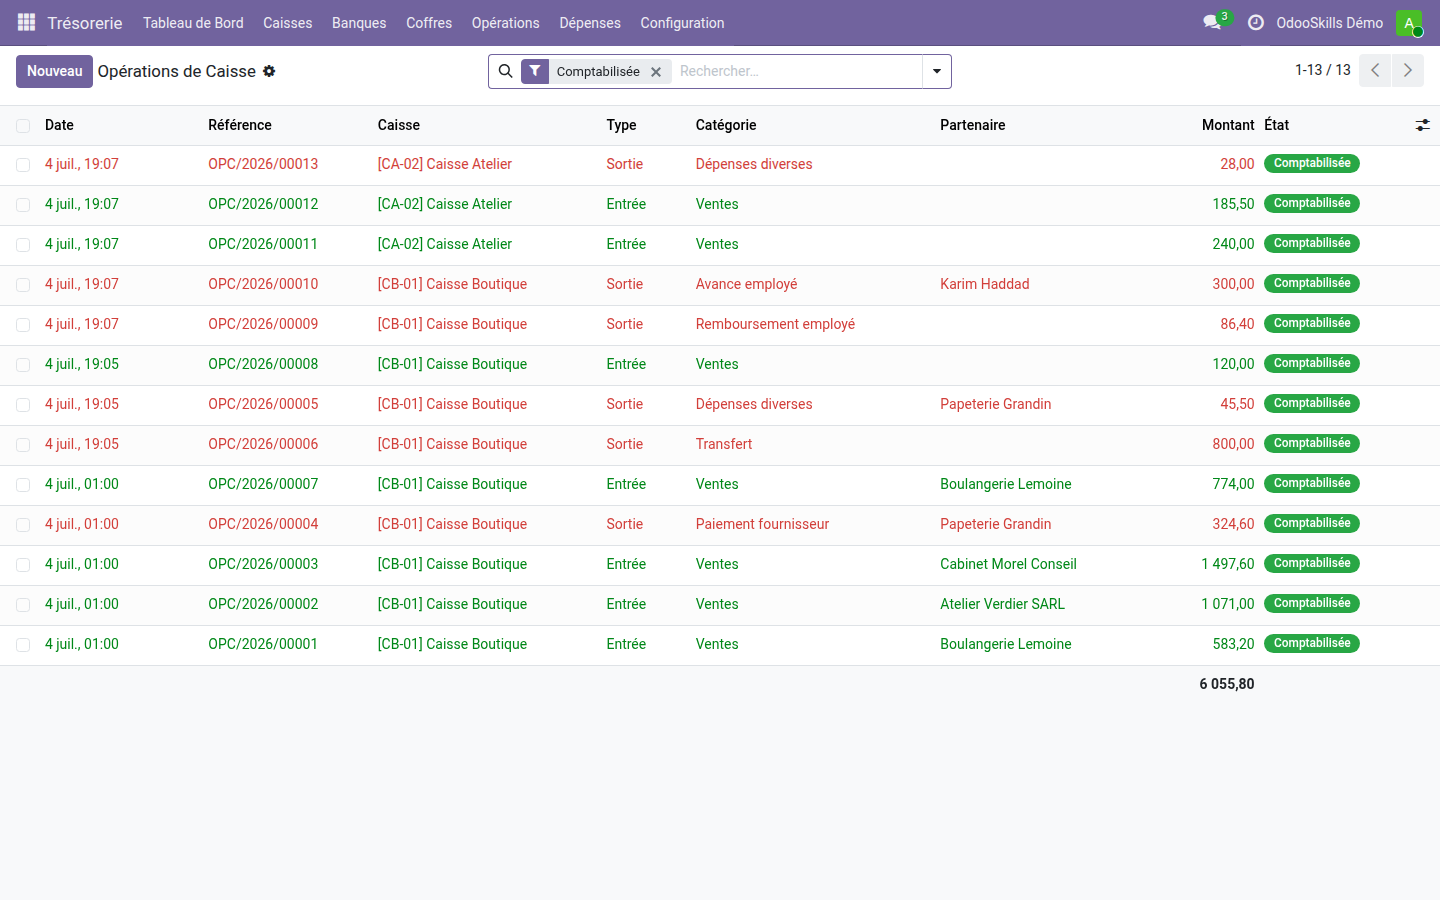
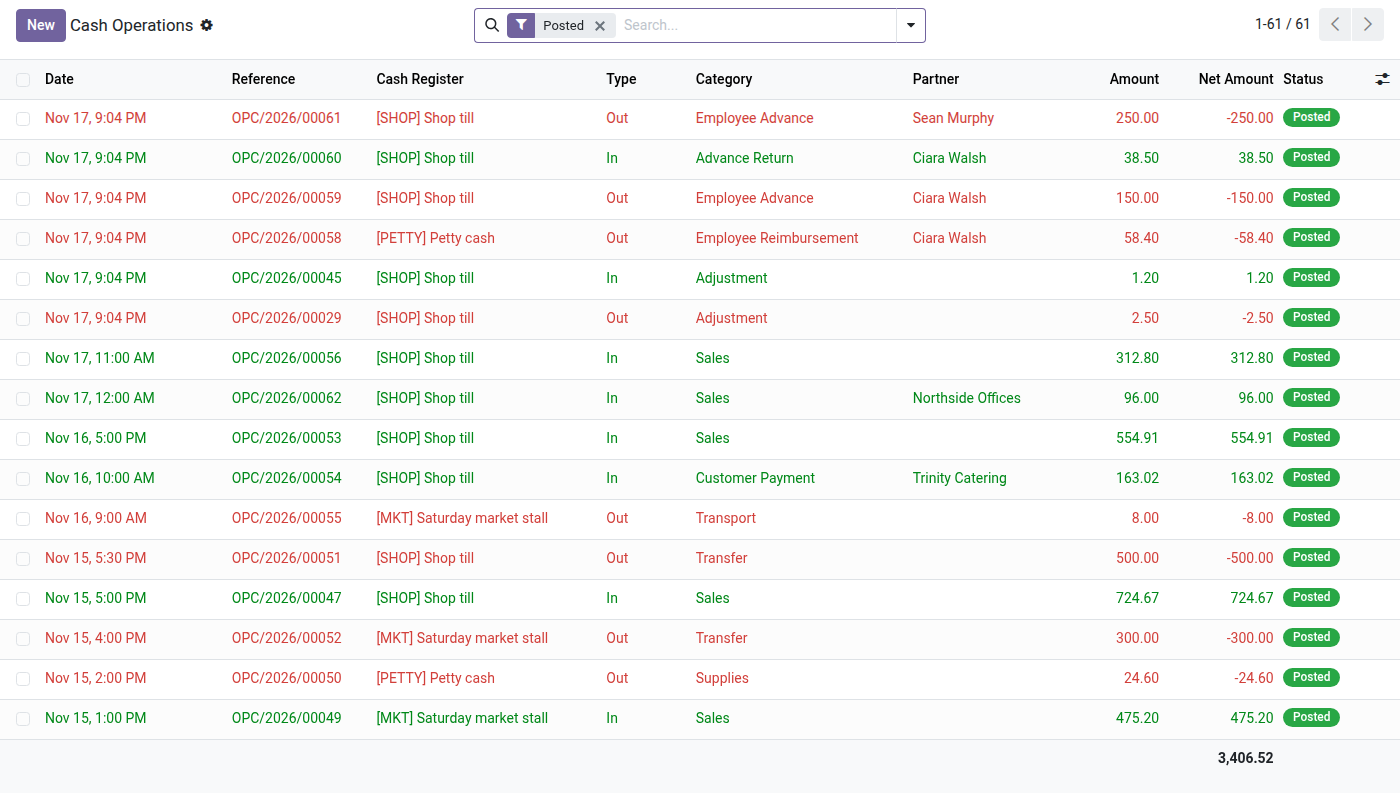
feat(treasury): EN/FR screenshots, euro denominations for every company, readable closing balances, net totals
- Cash count: shipped bills and coins are euros shared by all companies (they took the
  installing company currency, so a USD base had "EUR" coins in USD and none in EUR);
  migration fixes existing databases; tests no longer rely on the old behaviour
- Closing form: count buttons on their own row (they shifted labels and amounts)
- Cash and safe operations: a signed Net Amount column carries the list total
  (the raw amount summed money in and out)
- Store listings: 22 EN + 22 FR screenshots from a bakery demo (tills, safe, bank, expenses)

Claude-Session: https://claude.ai/code/session_016MyEM5UyxrnuEzKuQ8vuFt

diff --git a/oski_treasury/static/description/index.html b/oski_treasury/static/description/index.html
@@ -27,22 +27,29 @@
 
   <!-- 4. APERÇUS RÉELS -->
   <h2 style="font-size: 22px; font-weight: 700; margin: 28px 0 12px; color: #714B67;">In pictures</h2>
+  <h3 style="font-size: 18px; font-weight: 600; margin: 20px 0 8px; color: #374151;">1. Every cash register at a glance</h3>
+  <p style="line-height: 1.6; color: #374151;">Balance, cashier, location and closing status of the shop till, the market stall and the petty cash.</p>
+  <p><img src="screenshot_01_cash_registers.png" alt="Kanban of cash registers with balances and closing status" style="max-width: 100%; border-radius: 8px; border: 1px solid #e5e7eb; box-shadow: 0 4px 14px rgba(0,0,0,.07); margin: 10px 0;"/></p>
 
-  <h3 style="font-size: 18px; font-weight: 600; margin: 20px 0 8px; color: #374151;">1. Your cash registers at a glance</h3>
-  <p style="line-height: 1.6; color: #374151;">Current balance, ongoing closing and “in transit” amount on each card.</p>
-  <p><img src="screenshot_01_caisses.png" alt="Kanban view of cash registers with balances and ongoing closing" style="max-width: 100%; border-radius: 8px; border: 1px solid #e5e7eb; box-shadow: 0 4px 14px rgba(0,0,0,.07); margin: 10px 0;"/></p>
+  <h3 style="font-size: 18px; font-weight: 600; margin: 20px 0 8px; color: #374151;">2. Money in, money out</h3>
+  <p style="line-height: 1.6; color: #374151;">Sales, purchases, transfers and employee payments, in green and red, with a net total that adds up.</p>
+  <p><img src="screenshot_02_operations.png" alt="List of cash operations with net amount" style="max-width: 100%; border-radius: 8px; border: 1px solid #e5e7eb; box-shadow: 0 4px 14px rgba(0,0,0,.07); margin: 10px 0;"/></p>
 
-  <h3 style="font-size: 18px; font-weight: 600; margin: 20px 0 8px; color: #374151;">2. Every operation, in and out</h3>
-  <p style="line-height: 1.6; color: #374151;">Customer payments, vendor payments, cash vouchers and transfers — categorized and posted.</p>
-  <p><img src="screenshot_02_operations.png" alt="List of cash operations with categories and amounts" style="max-width: 100%; border-radius: 8px; border: 1px solid #e5e7eb; box-shadow: 0 4px 14px rgba(0,0,0,.07); margin: 10px 0;"/></p>
+  <h3 style="font-size: 18px; font-weight: 600; margin: 20px 0 8px; color: #374151;">3. Daily closing, counted and signed off</h3>
+  <p style="line-height: 1.6; color: #374151;">Starting balance, money in and out, counted cash and the difference — booked as an adjustment and validated by the manager.</p>
+  <p><img src="screenshot_03_closing.png" alt="Validated cash closing with balances, adjustment and its operations" style="max-width: 100%; border-radius: 8px; border: 1px solid #e5e7eb; box-shadow: 0 4px 14px rgba(0,0,0,.07); margin: 10px 0;"/></p>
 
-  <h3 style="font-size: 18px; font-weight: 600; margin: 20px 0 8px; color: #374151;">3. The closing that locks the day</h3>
-  <p style="line-height: 1.6; color: #374151;">Theoretical balance computed, actual balance entered, difference highlighted — then validation and locking.</p>
-  <p><img src="screenshot_03_cloture.png" alt="Validated cash closing with balances and linked operations" style="max-width: 100%; border-radius: 8px; border: 1px solid #e5e7eb; box-shadow: 0 4px 14px rgba(0,0,0,.07); margin: 10px 0;"/></p>
+  <h3 style="font-size: 18px; font-weight: 600; margin: 20px 0 8px; color: #374151;">4. Cash moves under control</h3>
+  <p style="line-height: 1.6; color: #374151;">Till to safe, safe to bank: each transfer records the balances before and after.</p>
+  <p><img src="screenshot_04_transfers.png" alt="List of treasury transfers between registers, safe and bank" style="max-width: 100%; border-radius: 8px; border: 1px solid #e5e7eb; box-shadow: 0 4px 14px rgba(0,0,0,.07); margin: 10px 0;"/></p>
 
-  <h3 style="font-size: 18px; font-weight: 600; margin: 20px 0 8px; color: #374151;">4. The transfer that simulates before it runs</h3>
-  <p style="line-height: 1.6; color: #374151;">End-of-day deposit to the safe: source and destination balances shown before/after, with a logged check.</p>
-  <p><img src="screenshot_04_transfert.png" alt="Register-to-safe transfer with balance simulation" style="max-width: 100%; border-radius: 8px; border: 1px solid #e5e7eb; box-shadow: 0 4px 14px rgba(0,0,0,.07); margin: 10px 0;"/></p>
+  <h3 style="font-size: 18px; font-weight: 600; margin: 20px 0 8px; color: #374151;">5. The safe has its own ledger</h3>
+  <p style="line-height: 1.6; color: #374151;">Evening deposits in, bank deposits out — every movement of the safe is numbered and dated.</p>
+  <p><img src="screenshot_05_safe_operations.png" alt="List of safe operations" style="max-width: 100%; border-radius: 8px; border: 1px solid #e5e7eb; box-shadow: 0 4px 14px rgba(0,0,0,.07); margin: 10px 0;"/></p>
+
+  <h3 style="font-size: 18px; font-weight: 600; margin: 20px 0 8px; color: #374151;">6. Limits and responsibilities</h3>
+  <p style="line-height: 1.6; color: #374151;">Maximum amount, blocking or warning control, closing deadline and authorised users per register.</p>
+  <p><img src="screenshot_06_cash_register.png" alt="Cash register form with balances and controls" style="max-width: 100%; border-radius: 8px; border: 1px solid #e5e7eb; box-shadow: 0 4px 14px rgba(0,0,0,.07); margin: 10px 0;"/></p>
 
   <!-- 5. VALEUR -->
   <h2 style="font-size: 22px; font-weight: 700; margin: 28px 0 12px; color: #714B67;">Why adopt it</h2>

diff --git a/oski_treasury/tests/test_treasury_integration.py b/oski_treasury/tests/test_treasury_integration.py
@@ -115,6 +115,26 @@ class TestTreasuryIntegration(TransactionCase):
         cash.invalidate_recordset()
         self.assertEqual(cash.current_balance, 7000)
 
+    def test_10b_signed_amount_for_list_totals(self):
+        """Outgoing operations count negatively in the net amount, and the raw
+        amount is not summed (a total mixing in and out means nothing)."""
+        cash = self.env['oski.treasury.cash'].create({
+            'name': 'Cash Net', 'code': 'NET1',
+            'journal_id': self.journal_cash.id,
+        })
+        Op = self.env['oski.treasury.cash.operation']
+        ops = Op.create([
+            {'cash_id': cash.id, 'operation_type': 'in',
+             'category_id': self.category_in.id, 'amount': 1000},
+            {'cash_id': cash.id, 'operation_type': 'out',
+             'category_id': self.category_out.id, 'amount': 300},
+        ])
+        self.assertEqual(ops.mapped('signed_amount'), [1000, -300])
+        self.assertEqual(sum(ops.mapped('signed_amount')), 700)
+        self.assertFalse(Op._fields['amount'].aggregator)
+        self.assertEqual(Op._fields['signed_amount'].aggregator, 'sum')
+        self.assertFalse(self.env['oski.treasury.safe.operation']._fields['amount'].aggregator)
+
     def test_11_operation_amount_positive(self):
         """The amount must be > 0"""
         cash = self.env['oski.treasury.cash'].create({

diff --git a/oski_treasury/models/treasury_cash_operation.py b/oski_treasury/models/treasury_cash_operation.py
@@ -26,7 +26,13 @@ class TreasuryCashOperation(models.Model):
     )
     amount = fields.Monetary(
         string='Amount', required=True, tracking=True,
-        currency_field='currency_id',
+        currency_field='currency_id', aggregator=None,
+    )
+    # Entrées en +, sorties en - : le total d'une liste qui mêle entrées et
+    # sorties n'a de sens que sur ce montant signé, pas sur `amount`.
+    signed_amount = fields.Monetary(
+        string='Net Amount', currency_field='currency_id',
+        compute='_compute_signed_amount', store=True,
     )
     currency_id = fields.Many2one(
         'res.currency', related='cash_id.currency_id', store=True,
@@ -72,6 +78,11 @@ class TreasuryCashOperation(models.Model):
     company_id = fields.Many2one(
         'res.company', related='cash_id.company_id', store=True,
     )
+
+    @api.depends('amount', 'operation_type')
+    def _compute_signed_amount(self):
+        for op in self:
+            op.signed_amount = op.amount if op.operation_type == 'in' else -op.amount
 
     # --- Time-based computed fields ---
     is_today = fields.Boolean(compute='_compute_date_filters')

diff --git a/oski_treasury/models/treasury_safe_operation.py b/oski_treasury/models/treasury_safe_operation.py
@@ -27,6 +27,12 @@ class TreasurySafeOperation(models.Model):
     ], string='Type', required=True, tracking=True)
     amount = fields.Monetary(
         string='Amount', required=True, currency_field='currency_id',
+        aggregator=None,
+    )
+    # Entrées en +, sorties en - (cf. _signed_amount) : total de liste qui a un sens
+    signed_amount = fields.Monetary(
+        string='Net Amount', currency_field='currency_id',
+        compute='_compute_signed_amount', store=True,
     )
     currency_id = fields.Many2one(
         'res.currency', related='safe_id.currency_id', store=True,
@@ -94,6 +100,11 @@ class TreasurySafeOperation(models.Model):
             op.balance_after = balance + (
                 op._signed_amount() if op.state == 'done' else 0.0
             )
+
+    @api.depends('amount', 'operation_type')
+    def _compute_signed_amount(self):
+        for op in self:
+            op.signed_amount = op._signed_amount()
 
     def _signed_amount(self):
         """Signed contribution of this operation to the safe's balance.

diff --git a/oski_treasury/__manifest__.py b/oski_treasury/__manifest__.py
@@ -1,6 +1,6 @@
 {
     'name': "Treasury — Cash & Safes",
-    'version': '19.0.1.0.1',
+    'version': '19.0.1.0.2',
     'category': 'Accounting/Treasury',
     'summary': 'Cash registers, safes, closings, transfers, configurable GL entries',
     'description': 'Complete physical treasury management: cash registers with running '
@@ -25,10 +25,8 @@
     'license': 'LGPL-3',
     'images': [
         'static/description/banner.png',
-        'static/description/screenshot_01_caisses.png',
+        'static/description/screenshot_01_cash_registers.png',
         'static/description/screenshot_02_operations.png',
-        'static/description/screenshot_03_cloture.png',
-        'static/description/screenshot_04_transfert.png',
     ],
     'depends': ['account', 'mail'],
     'data': [
